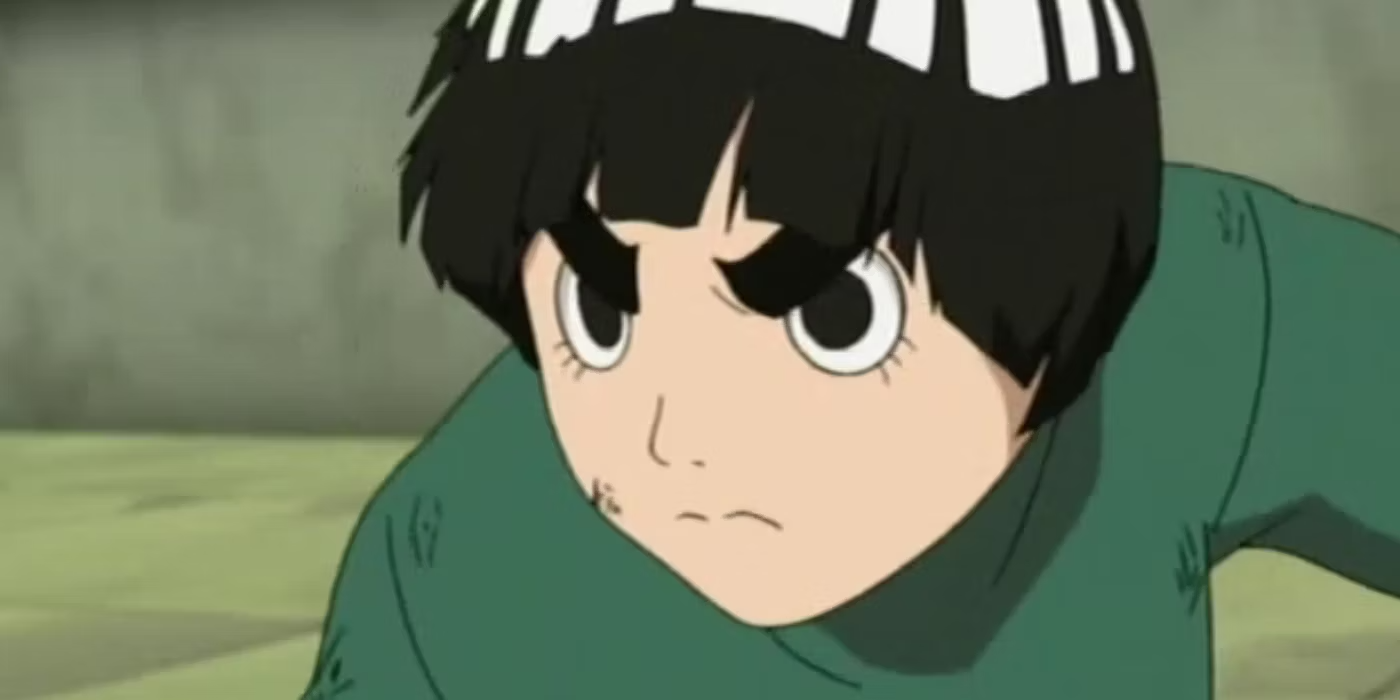
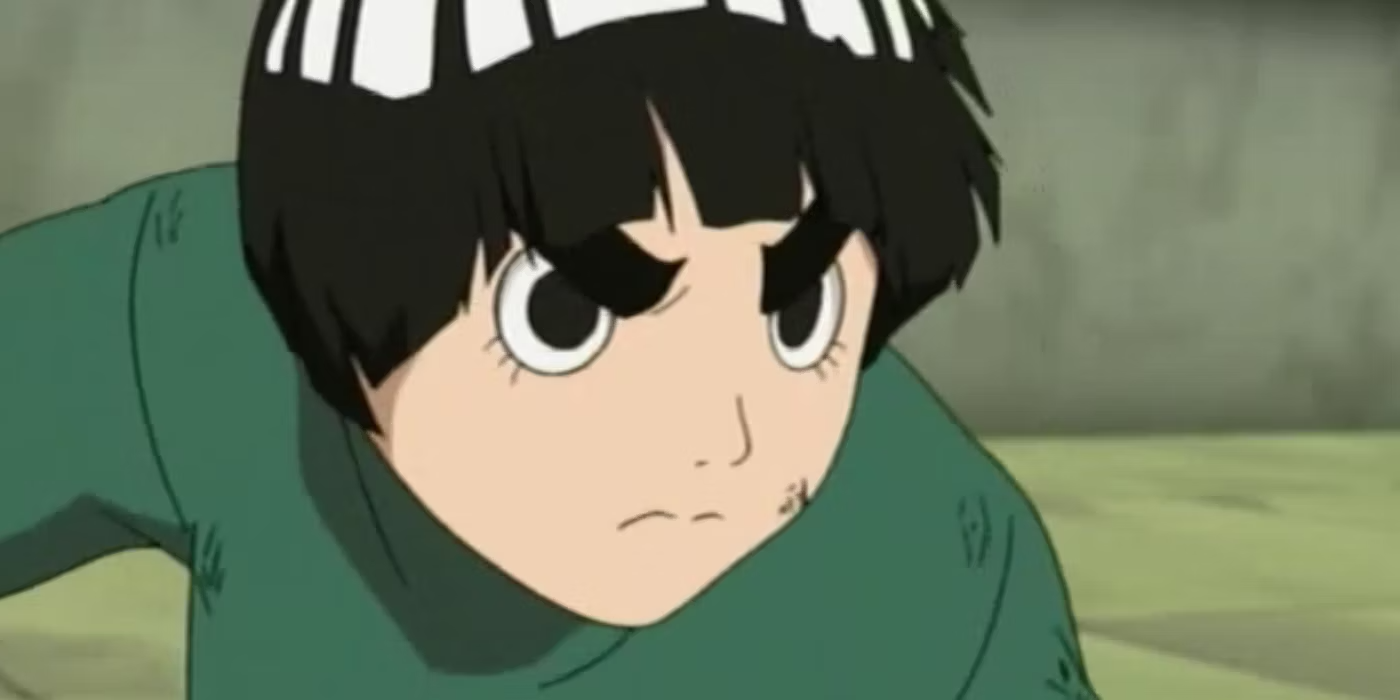
recator CharacterSelection component and Player/Enemy character info for better styles. Also add styles to invert image if is enemy team for battle page

diff --git a/src/web/CharacterSelection/CharacterSelection.tsx b/src/web/CharacterSelection/CharacterSelection.tsx
@@ -1,10 +1,10 @@
 import "./CharacterSelection.css";
 
 import { useState, DragEvent, useEffect } from "react";
-
 import { Character } from "../../models/character.model";
 import { Ability } from "../../models/ability.model";
 import { availableCharacters } from "../../database/available-characters";
+
 import AbilityDescriptionFooter from "../components/AbilityDescriptionFooter/AbilityDescriptionFooter";
 
 interface CharacterSelectionProps {
@@ -155,7 +155,7 @@ export default function CharacterSelection({
                     onDragOver={(e) => handleDragOver(e, index)}
                     onDrop={(e) => handleDrop(e, index)}
                   >
-                    {selectedCharacters[index] && (
+                    {selectedCharacters[index] ? (
                       <div
                         className="selected-character-container"
                         draggable
@@ -164,21 +164,27 @@ export default function CharacterSelection({
                         }
                         onDragEnd={handleDragEnd}
                       >
-                        <img
-                          src={`/characters/${selectedCharacters[index].name
-                            .split(" ")
-                            .join("")
-                            .toLowerCase()}/${selectedCharacters[index].name
-                            .split(" ")
-                            .join("")
-                            .toLowerCase()}.png`}
-                          alt={selectedCharacters[index].name}
-                          className="selected-sprite"
-                          draggable={false}
-                        />
+                        <div className="character-portrait">
+                          <img
+                            src={`/characters/${selectedCharacters[index].name
+                              .split(" ")
+                              .join("")
+                              .toLowerCase()}/${selectedCharacters[index].name
+                              .split(" ")
+                              .join("")
+                              .toLowerCase()}.png`}
+                            alt={selectedCharacters[index].name}
+                            className="character-image"
+                            draggable={false}
+                            onError={(e) => {
+                              e.currentTarget.src = "/characters/default.png";
+                            }}
+                          />
+                        </div>
                       </div>
+                    ) : (
+                      <span>?</span>
                     )}
-                    {!selectedCharacters[index] && <span>?</span>}
                   </div>
                 ))}
             </div>
@@ -221,7 +227,7 @@ export default function CharacterSelection({
                 onDragStart={(e) => handleDragStart(e, char)}
                 onDragEnd={handleDragEnd}
               >
-                <div className="character-sprite">
+                <div className="character-portrait">
                   <img
                     src={`/characters/${char.name
                       .split(" ")
@@ -231,7 +237,11 @@ export default function CharacterSelection({
                       .join("")
                       .toLowerCase()}.png`}
                     alt={char.name}
+                    className="character-image"
                     draggable={false}
+                    onError={(e) => {
+                      e.currentTarget.src = "/characters/default.png";
+                    }}
                   />
                 </div>
                 <div className="character-info">

diff --git a/src/web/CharacterSelection/CharacterSelection.css b/src/web/CharacterSelection/CharacterSelection.css
@@ -69,28 +69,28 @@
   box-shadow: var(--shadow-md);
   padding: var(--spacing-xs);
   cursor: grab;
-  transition: var(--transition-fast);
   display: flex;
   flex-direction: column;
   align-items: center;
   user-select: none;
-  max-width: 110px;
-  height: 120px;
-}
-
-.character-card-selection-selection:hover {
-  transform: translateY(-2px);
-  box-shadow: 0 4px 6px rgba(0, 0, 0, 0.1);
+  width: 95px;
+  height: 110px;
+  border: 2px solid transparent;
+  transition: none;
 }
 
 .character-card-selection.selected {
-  border-color: #3b82f6;
-  background-color: rgba(244, 235, 220, 0.2);
+  border-color: var(--color-selected);
+  background-color: transparent;
+  opacity: 0.8;
 }
 
-.character-card-selection.dragging {
-  opacity: 0.5;
-  cursor: grabbing;
+.character-card-selection:hover {
+  transform: none;
+}
+
+.character-card-selection-selection:hover {
+  transform: none;
 }
 
 .character-sprite {
@@ -100,7 +100,7 @@
   display: flex;
   justify-content: center;
   align-items: center;
-  background-color: rgba(244, 235, 220, 0);
+  background-color: var(--bg-white);
 }
 
 .character-sprite img {
@@ -118,9 +118,9 @@
 }
 
 .character-name {
-  font-size: var(--font-xs);
+  font-size: var(--font-xxs);
   font-weight: 600;
-  color: #1e293b;
+  color: var(--text-dark);
   white-space: nowrap;
   overflow: hidden;
   text-overflow: ellipsis;
@@ -358,16 +358,14 @@
 .character-slot {
   width: 80px;
   height: 80px;
-  border-radius: 8px;
-  background-color: #f8fafc;
+  border-radius: var(--radius-md);
+  background-color: rgba(248, 250, 252, 0.8);
   border: 2px dashed #e2e8f0;
   display: flex;
-  flex-direction: column;
   align-items: center;
   justify-content: center;
-  gap: 0.5rem;
-  transition: all 0.2s ease;
   cursor: default;
+  overflow: hidden;
 }
 
 .character-slot.filled {
@@ -384,45 +382,13 @@
 .character-slot.drag-over {
   border-color: #10b981;
   background-color: #ecfdf5;
-  transform: scale(1.05);
+  transform: none;
 }
 
 .character-slot.empty-slot {
   border-style: dashed;
 }
 
-/* Responsive Design */
-@media (max-width: 768px) {
-  .characters-grid {
-    grid-template-columns: repeat(auto-fill, minmax(240px, 1fr));
-  }
-
-  .selected-list {
-    flex-wrap: wrap;
-  }
-
-  .ability-description-content {
-    flex-direction: column;
-    align-items: center;
-    text-align: center;
-  }
-
-  .ability-details {
-    justify-content: center;
-  }
-}
-
-@media (max-width: 640px) {
-  .character-selection-container {
-    padding: 1rem;
-  }
-
-  .characters-grid {
-    grid-template-columns: 1fr;
-  }
-}
-
-/* Add these new styles */
 .remove-zone {
   display: none;
   padding: 1rem;
@@ -449,7 +415,6 @@
   flex-direction: column;
   align-items: center;
   justify-content: center;
-  gap: 0.5rem;
   cursor: grab;
 }
 
@@ -457,7 +422,30 @@
   cursor: grabbing;
 }
 
-/* Show remove zone only when dragging from slot */
 [data-dragging-from-slot="true"] .remove-zone {
   display: block;
+}
+
+.character-portrait {
+  width: 60px;
+  height: 60px;
+  border-radius: var(--radius-md);
+  overflow: hidden;
+  display: flex;
+  justify-content: center;
+  align-items: center;
+  background-color: rgba(0, 0, 0, 0.1);
+}
+
+.selected-sprite {
+  width: 100%;
+  height: 100%;
+  object-fit: contain;
+  pointer-events: none;
+}
+
+.character-card-selection .character-portrait {
+  width: 80px;
+  height: 80px;
+  margin-bottom: var(--spacing-xs);
 }

diff --git a/src/web/Battle/PlayerCharacterInfo/CharacterInfo.css b/src/web/Battle/PlayerCharacterInfo/CharacterInfo.css
@@ -134,3 +134,49 @@
     opacity: 0.7;
   }
 }
+
+/* Add new styles for enemy character images */
+.character-portrait.enemy .character-image {
+  transform: scaleX(-1); /* This will flip the enemy characters horizontally */
+}
+
+/* Update hover effects to maintain the flip while scaling */
+.character-name-container:has(.character-selected)
+  .character-portrait.enemy
+  .character-image {
+  transform: scaleX(-1);
+}
+
+.character-name-container:has(.character-selected)
+  .character-portrait.enemy
+  .character-image:hover {
+  transform: scaleX(-1) scale(1.1);
+}
+
+/* Regular hover effect for enemy characters */
+.character-portrait.enemy .character-image:hover {
+  transform: scaleX(-1) scale(1.1);
+}
+
+/* Keep the original hover effect for player characters */
+.character-portrait:not(.enemy) .character-image:hover {
+  transform: scale(1.1);
+}
+
+/* Update death animation for enemy characters */
+.character-portrait.enemy .character-dying {
+  animation: deathFadeEnemy 1s ease-in-out;
+}
+
+@keyframes deathFadeEnemy {
+  0% {
+    filter: grayscale(0);
+    opacity: 1;
+    transform: scaleX(-1);
+  }
+  100% {
+    filter: grayscale(1);
+    opacity: 0.7;
+    transform: scaleX(-1);
+  }
+}

diff --git a/src/styles/variables.css b/src/styles/variables.css
@@ -23,13 +23,8 @@
   --color-secondary-dark: #695640;
 
   /* Background Colors */
-  --bg-primary: rgba(215, 198, 180, 0.9); /* Light brown with transparency */
-  --bg-secondary: rgba(
-    244,
-    235,
-    220,
-    0.9
-  ); /* Lighter brown with transparency */
+  --bg-primary: rgba(215, 198, 180, 0.9);
+  --bg-secondary: rgba(242, 235, 224, 0.9);
   --bg-overlay: rgba(255, 255, 255, 0.9);
   --bg-tooltip: rgba(15, 23, 42, 0.95);
 
@@ -44,6 +39,7 @@
   --color-success: #10b981;
   --color-success-hover: #059669;
   --color-error: #ef4444;
+  --color-selected: #3b82f6;
   --color-warning: #f59e0b;
   --color-disabled: #94a3b8;
 
@@ -64,6 +60,7 @@
   --font-family-default-italic: "MangaItalic", sans-serif;
 
   /* Font Sizes */
+  --font-xxs: 0.5rem; /* 8px */
   --font-xs: 0.75rem; /* 12px */
   --font-sm: 0.875rem; /* 14px */
   --font-base: 1rem; /* 16px */

diff --git a/src/web/Battle/PlayerCharacterInfo/EnemyCharacterInfo.tsx b/src/web/Battle/PlayerCharacterInfo/EnemyCharacterInfo.tsx
@@ -1,4 +1,4 @@
-import "./PlayerCharacterInfo.css";
+import "./CharacterInfo.css";
 import React, { useState, useEffect } from "react";
 import { Character } from "../../../models/character.model";
 import { HealthBar } from "../HealthBar/HealthBar";
@@ -31,7 +31,7 @@ export const EnemyCharacterName: React.FC<EnemyCharacterNameProps> = ({
 
   return (
     <div className="character-name-container enemy">
-      <div className="character-portrait">
+      <div className="character-portrait enemy">
         <img
           src={
             isDeathAnimationComplete && character.hp <= 0

diff --git a/src/App.tsx b/src/App.tsx
@@ -2,11 +2,12 @@ import "./styles/reset.css";
 import "./App.css";
 
 import { useState, useEffect, useCallback } from "react";
-import CharacterSelection from "./web/CharacterSelection/CharacterSelection";
 import { GameEngine } from "./models/game-engine";
 import { Character } from "./models/character.model";
 import { Player } from "./models/player.model";
 import { AICharacters } from "./database/ai-characters";
+
+import CharacterSelection from "./web/CharacterSelection/CharacterSelection";
 import Battle from "./web/Battle/Battle";
 
 function App() {

diff --git a/src/web/Battle/PlayerCharacterInfo/PlayerCharacterInfo.tsx b/src/web/Battle/PlayerCharacterInfo/PlayerCharacterInfo.tsx
@@ -1,4 +1,4 @@
-import "./PlayerCharacterInfo.css";
+import "./CharacterInfo.css";
 import React, { useState, useEffect } from "react";
 import { Character } from "../../../models/character.model";
 import { HealthBar } from "../HealthBar/HealthBar";
